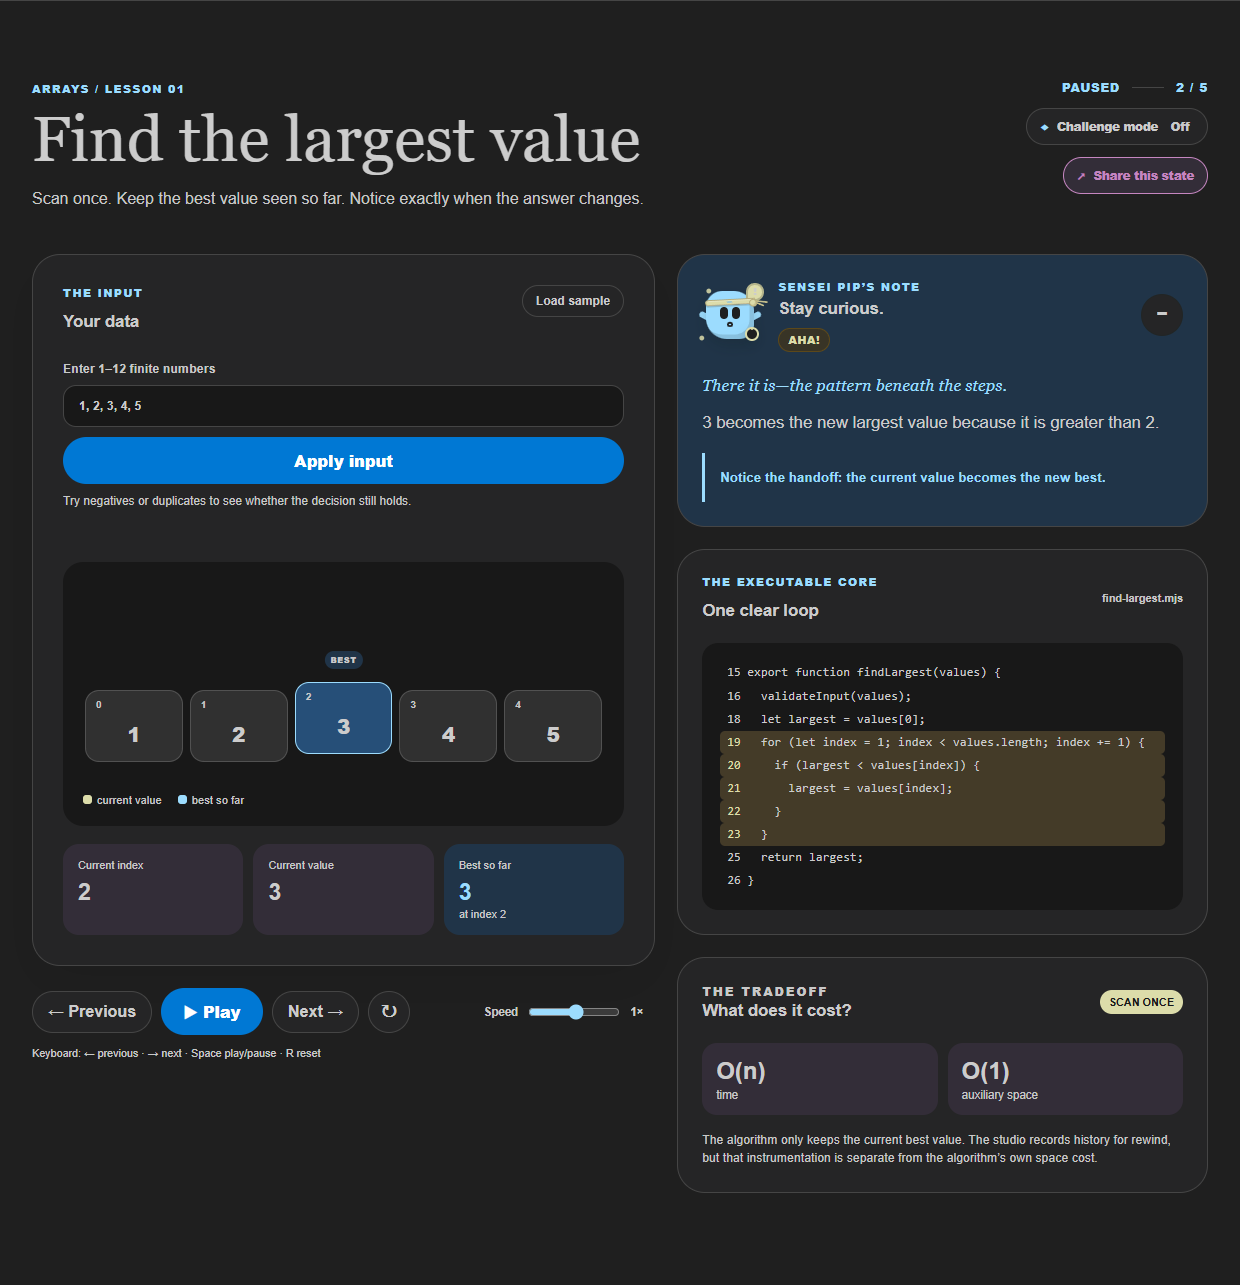
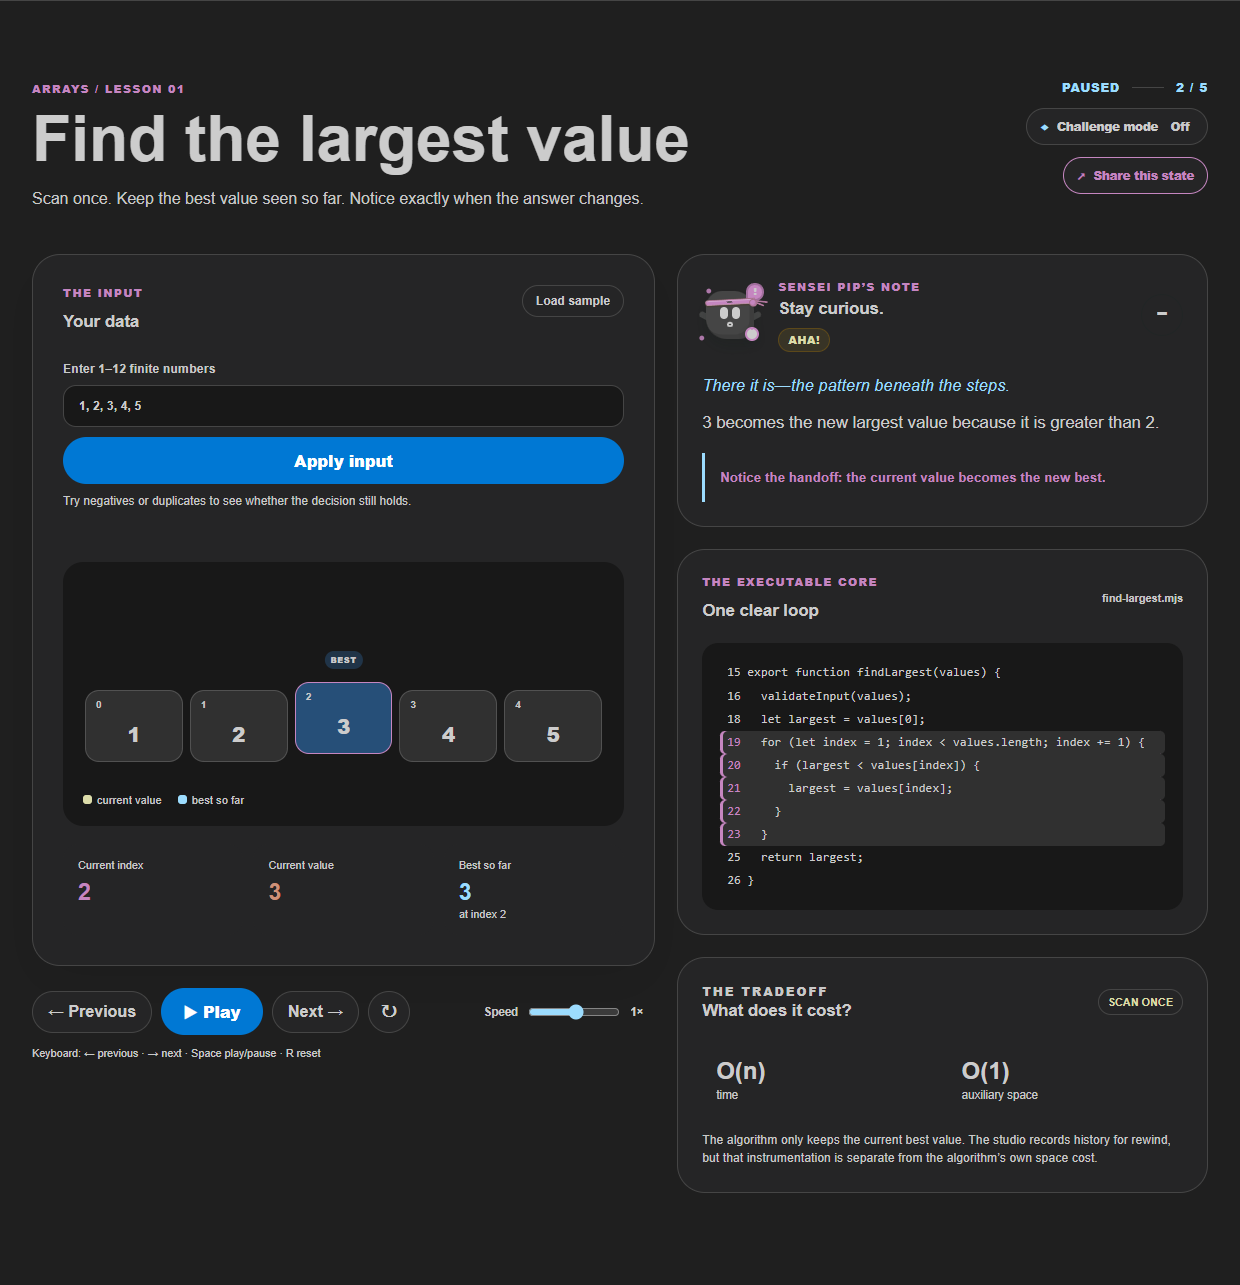
Unify bold typography, balanced Dark Modern accents and destination-specific media (#31)

diff --git a/studio/styles.css b/studio/styles.css
@@ -1,6 +1,6 @@
 :root {
   --font-ui: Arial, Helvetica, ui-sans-serif, system-ui, -apple-system, BlinkMacSystemFont, "Segoe UI", sans-serif;
-  --font-display: Georgia, "Times New Roman", serif;
+  --font-display: var(--font-ui);
   --font-code: Consolas, "Courier New", monospace;
 
   color-scheme: dark;
@@ -8,11 +8,11 @@
   --ink-soft: #C8C8C8;
   --paper: #1F1F1F;
   --surface: #252526;
-  --accent-surface: #203448;
+  --accent-surface: #252526;
   --accent: #9CDCFE;
   --action: #0078D4;
   --blue: #C586C0;
-  --blue-soft: #332D38;
+  --blue-soft: #252526;
   --sun: #DCDCAA;
   --line: #454545;
   --shadow: 0 18px 50px rgba(0, 0, 0, 0.08);
@@ -254,7 +254,7 @@ h3 { margin-bottom: 0; font-size: 1.05rem; }
 .array-cells { display: grid; grid-template-columns: repeat(var(--array-count), minmax(58px, 1fr)); gap: 7px; align-items: end; min-height: 134px; }
 .array-cell { position: relative; display: flex; align-items: flex-end; justify-content: center; min-height: 72px; padding: 18px 6px 13px; border: 1px solid rgba(255,255,255,0.16); border-radius: 14px; background: #303030; color: #CCCCCC; font-size: 1.25rem; font-weight: 800; transition: background 180ms ease, transform 180ms ease, border-color 180ms ease; }
 .array-cell::before { position: absolute; top: 8px; left: 10px; color: #C8C8C8; content: attr(data-index); font-size: 0.62rem; font-weight: 700; }
-.array-cell--active { border-color: var(--sun); background: #55461f; transform: translateY(-8px); }
+.array-cell--active { border-color: var(--sun); background: #303030; transform: translateY(-8px); }
 .array-cell--changed { outline: 3px solid #DCDCAA; outline-offset: 2px; animation: array-change 520ms ease-out; }
 .array-cell--marker-best { border-color: #9CDCFE; background: var(--accent-surface); }
 .array-cell--active.array-cell--marker-best { background: #264F78; }
@@ -300,7 +300,7 @@ h3 { margin-bottom: 0; font-size: 1.05rem; }
 .lookup-empty { display: grid; place-items: center; min-height: 76px; margin: 0; border: 1px dashed rgba(255,255,255,0.16); border-radius: 13px; color: #C8C8C8; font-size: 0.72rem; font-weight: 750; }
 .lookup-entries { display: flex; gap: 8px; min-width: max-content; padding: 5px 2px 8px; }
 .lookup-entry { position: relative; display: grid; grid-template-columns: auto auto auto; gap: 7px; align-items: center; min-width: 104px; min-height: 58px; padding: 12px 14px; border: 1px solid rgba(255,255,255,0.16); border-radius: 13px; background: #303030; color: #CCCCCC; transition: background 180ms ease, transform 180ms ease, border-color 180ms ease; }
-.lookup-entry--active { border-color: var(--sun); background: #55461f; transform: translateY(-4px); }
+.lookup-entry--active { border-color: var(--sun); background: #303030; transform: translateY(-4px); }
 .lookup-entry--result { border-color: #9CDCFE; box-shadow: inset 0 -4px 0 #9CDCFE; }
 .lookup-entry-key { color: #CCCCCC; font-size: 0.78rem; font-weight: 800; }
 .lookup-entry-separator { color: #C8C8C8; font-size: 0.7rem; }
@@ -313,7 +313,7 @@ h3 { margin-bottom: 0; font-size: 1.05rem; }
 .grid-cell::before { position: absolute; top: 4px; left: 6px; color: #C8C8C8; content: attr(data-row) "," attr(data-column); font-size: 0.48rem; font-weight: 700; }
 .grid-cell strong { font-size: 1rem; }
 .grid-cell small { position: absolute; right: 5px; bottom: 3px; max-width: calc(100% - 10px); overflow: hidden; color: #C8C8C8; font-size: 0.45rem; font-weight: 650; text-overflow: ellipsis; white-space: nowrap; }
-.grid-cell--active { border-color: var(--sun); background: #55461f; transform: translateY(-3px); }
+.grid-cell--active { border-color: var(--sun); background: #303030; transform: translateY(-3px); }
 .grid-cell--changed { outline: 3px solid #DCDCAA; outline-offset: 1px; animation: array-change 520ms ease-out; }
 .grid-cell--marker-result, .grid-cell--marker-settled, .grid-cell--marker-visited { border-color: #9CDCFE; box-shadow: inset 0 -4px 0 #9CDCFE; }
 
@@ -325,7 +325,7 @@ h3 { margin-bottom: 0; font-size: 1.05rem; }
 .stack-item small { color: #C8C8C8; font-size: 0.54rem; font-weight: 650; }
 .stack-item--top::before { color: var(--sun); content: "TOP"; font-size: 0.5rem; font-weight: 850; letter-spacing: 0.08em; }
 .stack-item--top strong { grid-column: 2; }
-.stack-item--active { border-color: var(--sun); background: #55461f; }
+.stack-item--active { border-color: var(--sun); background: #303030; }
 .stack-item--changed { outline: 2px solid #DCDCAA; outline-offset: 1px; }
 .stack-item--state-matched { border-color: #9CDCFE; }
 .stack-item--state-mismatch { border-color: #CE9178; background: #57322e; }
@@ -339,7 +339,7 @@ h3 { margin-bottom: 0; font-size: 1.05rem; }
 .queue-item span { max-width: 92px; overflow: hidden; color: #C8C8C8; font-size: 0.5rem; font-weight: 650; text-overflow: ellipsis; white-space: nowrap; }
 .queue-item--front { border-left-color: var(--blue); }
 .queue-item--back { border-right-color: var(--sun); }
-.queue-item--active { border-color: var(--sun); background: #55461f; transform: translateY(-3px); }
+.queue-item--active { border-color: var(--sun); background: #303030; transform: translateY(-3px); }
 .queue-item--changed { outline: 2px solid #DCDCAA; outline-offset: 1px; }
 
 .branching-view { min-width: 320px; overflow-x: auto; padding: 12px 6px 6px; scrollbar-color: #6B6B6B transparent; }
@@ -350,7 +350,7 @@ h3 { margin-bottom: 0; font-size: 1.05rem; }
 .branching-node strong { font-size: 1rem; }
 .branching-node-pointers { min-height: 0.65rem; color: var(--sun); font-size: 0.46rem; font-weight: 850; letter-spacing: 0.04em; text-transform: uppercase; }
 .branching-node small { max-width: 70px; min-height: 0.65rem; overflow: hidden; color: #C8C8C8; font-size: 0.46rem; font-weight: 650; text-overflow: ellipsis; white-space: nowrap; }
-.branching-node--active { border-color: var(--sun); background: #55461f; transform: translateY(-3px); }
+.branching-node--active { border-color: var(--sun); background: #303030; transform: translateY(-3px); }
 .branching-node--changed { outline: 2px solid #DCDCAA; outline-offset: 2px; }
 .branching-node--state-visited, .branching-node--state-result, .branching-node--state-valid { border-color: #9CDCFE; box-shadow: inset 0 -4px 0 #9CDCFE; }
 .branching-node--state-invalid { border-color: #CE9178; background: #57322e; }
@@ -365,7 +365,7 @@ h3 { margin-bottom: 0; font-size: 1.05rem; }
 .graph-node { position: absolute; left: var(--graph-x); top: var(--graph-y); display: grid; place-items: center; width: 62px; min-height: 62px; padding: 5px; border: 2px solid #6B6B6B; border-radius: 999px; background: #303030; color: #CCCCCC; text-align: center; transform: translate(-50%, -50%); transition: background 180ms ease, border-color 180ms ease, scale 180ms ease; }
 .graph-node strong { font-size: 0.9rem; }
 .graph-node small { max-width: 50px; overflow: hidden; color: #C8C8C8; font-size: 0.42rem; font-weight: 650; text-overflow: ellipsis; white-space: nowrap; }
-.graph-node--active { z-index: 2; border-color: var(--sun); background: #55461f; scale: 1.08; }
+.graph-node--active { z-index: 2; border-color: var(--sun); background: #303030; scale: 1.08; }
 .graph-node--changed { outline: 2px solid #DCDCAA; outline-offset: 2px; }
 .graph-node--state-visited, .graph-node--state-result, .graph-node--state-component { border-color: #9CDCFE; box-shadow: inset 0 -4px 0 #9CDCFE; }
 .graph-node--state-cycle { border-color: #CE9178; background: #57322e; }
@@ -382,7 +382,7 @@ h3 { margin-bottom: 0; font-size: 1.05rem; }
 .linked-list-pointer--next, .linked-list-pointer--fast { background: #DCDCAA; }
 .linked-list-node { position: relative; z-index: 2; display: grid; place-items: center; min-height: 78px; padding: 17px 8px 13px; border: 1px solid rgba(255,255,255,0.16); border-radius: 16px; background: #303030; color: #CCCCCC; font-size: 1.25rem; font-weight: 800; transition: background 180ms ease, border-color 180ms ease; }
 .linked-list-node::before { position: absolute; top: 7px; left: 9px; color: #C8C8C8; content: attr(data-index); font-size: 0.6rem; font-weight: 700; }
-.linked-list-item--active .linked-list-node { border-color: var(--sun); background: #55461f; }
+.linked-list-item--active .linked-list-node { border-color: var(--sun); background: #303030; }
 .linked-list-item--changed .linked-list-node { outline: 3px solid var(--sun); outline-offset: 2px; animation: array-change 520ms ease-out; }
 .linked-list-item--state-visited .linked-list-node, .linked-list-item--state-rewired .linked-list-node, .linked-list-item--state-reversed .linked-list-node { box-shadow: inset 0 -5px 0 #9CDCFE; }
 .linked-list-item--state-cycle .linked-list-node, .linked-list-item--state-cycle-entry .linked-list-node, .linked-list-item--state-meeting .linked-list-node { box-shadow: inset 0 -5px 0 #CE9178; }
@@ -565,6 +565,21 @@ h3 { margin-bottom: 0; font-size: 1.05rem; }
 .primary-button:hover { background: #0069B9; }
 
 /* Shared portfolio typography: editorial headings, quiet interface text. */
-h1, h2 { font-family: var(--font-display); font-weight: 500; letter-spacing: 0; }
-.home-hero h1 { font-weight: 500; letter-spacing: -0.025em; line-height: 0.98; }
+h1, h2 { font-family: var(--font-display); font-weight: 700; letter-spacing: 0; }
+.home-hero h1 { font-weight: 700; letter-spacing: -0.025em; line-height: 0.98; }
 pre, code, kbd, samp { font-family: var(--font-code); }
+
+/* Neutral workbench surfaces; syntax colors identify the supporting roles. */
+.hero h1 em { font-style: normal; font-weight: 700; color: #C586C0; }
+.eyebrow, .pip-card-header .eyebrow, .pip-prompt { color: #C586C0; }
+.pip-card, .stat-card, .stat-card--accent { background: #252526; }
+.lesson-card-copy small, .lesson-card-number { color: #CE9178; }
+.lesson-topic-group:nth-of-type(3n + 2) .lesson-topic-heading h3 { color: #DCDCAA; }
+.lesson-topic-group:nth-of-type(3n) .lesson-topic-heading h3 { color: #C586C0; }
+.stat-card:nth-child(3n + 1) strong { color: #C586C0; }
+.stat-card:nth-child(3n + 2) strong { color: #CE9178; }
+.stat-card:nth-child(3n) strong { color: #9CDCFE; }
+.code-line.is-active { background: #303030; box-shadow: inset 3px 0 0 #C586C0; }
+.code-line.is-active b { color: #C586C0; }
+.complexity-chip { background: #252526; color: #DCDCAA; border: 1px solid #454545; }
+.array-cell--active { border-color: #C586C0; background: #303030; }

diff --git a/studio/home.css b/studio/home.css
@@ -1,6 +1,6 @@
 :root {
   --font-ui: Arial, Helvetica, ui-sans-serif, system-ui, -apple-system, BlinkMacSystemFont, "Segoe UI", sans-serif;
-  --font-display: Georgia, "Times New Roman", serif;
+  --font-display: var(--font-ui);
   --font-code: Consolas, "Courier New", monospace;
 
   color-scheme: dark;
@@ -9,12 +9,12 @@
   --ink-soft: #C8C8C8;
   --paper: #1F1F1F;
   --surface: #252526;
-  --accent-surface: #203448;
+  --accent-surface: #252526;
   --accent-bright: #9CDCFE;
   --accent: #9CDCFE;
   --action: #0078D4;
   --blue: #C586C0;
-  --blue-soft: #332D38;
+  --blue-soft: #252526;
   --sun: #DCDCAA;
   --coral: #CE9178;
   --line: #454545;
@@ -1697,6 +1697,15 @@ button[data-scan-replay] { color: #9CDCFE; }
 .home-button--outline { color: #CCCCCC; }
 
 /* Shared portfolio typography: editorial headings, quiet interface text. */
-h1, h2 { font-family: var(--font-display); font-weight: 500; letter-spacing: 0; }
-.home-hero h1 { font-weight: 500; letter-spacing: -0.025em; line-height: 0.98; }
+h1, h2 { font-family: var(--font-display); font-weight: 700; letter-spacing: 0; }
+.home-hero h1 { font-weight: 700; letter-spacing: -0.025em; line-height: 0.98; }
 pre, code, kbd, samp { font-family: var(--font-code); }
+
+.home-hero h1 em { font-style: normal; font-weight: 700; color: #C586C0; }
+.home-eyebrow, .home-hero .home-eyebrow, .final-section .home-eyebrow { color: #C586C0; }
+.home-button:not(.home-button--primary):not(.home-button--ghost):not(.home-button--outline) { background: #252526; color: #DCDCAA; border-color: #454545; }
+.home-lesson-topic:nth-of-type(3n + 2) h2 { color: #DCDCAA; }
+.home-lesson-topic:nth-of-type(3n) h2 { color: #CE9178; }
+
+.home-hero .home-button--outline { color: #CE9178; }
+.header-cta { color: #9CDCFE; }

diff --git a/studio/index.html b/studio/index.html
@@ -10,11 +10,11 @@
     <meta property="og:url" content="https://everdein.github.io/dsa-dojo/studio/" />
     <meta property="og:title" content="DSA Dojo — Interactive Algorithm Studio" />
     <meta property="og:description" content="Step through 55 JavaScript algorithm lessons with synchronized state, source code, and explanation." />
-    <meta property="og:image" content="https://everdein.github.io/dsa-dojo/social-preview.jpg?v=20261023-type" />
+    <meta property="og:image" content="https://everdein.github.io/dsa-dojo/social-preview.jpg?v=20261023-balanced" />
     <meta name="twitter:card" content="summary_large_image" />
     <meta name="twitter:title" content="DSA Dojo — Interactive Algorithm Studio" />
     <meta name="twitter:description" content="Pause, predict, and explain 55 JavaScript algorithm lessons one decision at a time." />
-    <meta name="twitter:image" content="https://everdein.github.io/dsa-dojo/social-preview.jpg?v=20261023-type" />
+    <meta name="twitter:image" content="https://everdein.github.io/dsa-dojo/social-preview.jpg?v=20261023-balanced" />
     <title>DSA Dojo — Interactive Algorithm Studio</title>
     <link rel="canonical" href="https://everdein.github.io/dsa-dojo/studio/" />
     <link rel="icon" href="../favicon.svg" type="image/svg+xml" />

diff --git a/studio/home.html b/studio/home.html
@@ -10,11 +10,11 @@
     <meta property="og:url" content="https://everdein.github.io/dsa-dojo/" />
     <meta property="og:title" content="DSA Dojo — See the Algorithm Think" />
     <meta property="og:description" content="Interactive JavaScript lessons that synchronize algorithm state, source code, and explanation." />
-    <meta property="og:image" content="https://everdein.github.io/dsa-dojo/social-preview.jpg?v=20261023-type" />
+    <meta property="og:image" content="https://everdein.github.io/dsa-dojo/social-preview.jpg?v=20261023-balanced" />
     <meta name="twitter:card" content="summary_large_image" />
     <meta name="twitter:title" content="DSA Dojo — See the Algorithm Think" />
     <meta name="twitter:description" content="Pause, predict, and explain data structures and algorithms one decision at a time." />
-    <meta name="twitter:image" content="https://everdein.github.io/dsa-dojo/social-preview.jpg?v=20261023-type" />
+    <meta name="twitter:image" content="https://everdein.github.io/dsa-dojo/social-preview.jpg?v=20261023-balanced" />
     <title>DSA Dojo — See the Algorithm Think</title>
     <link rel="canonical" href="https://everdein.github.io/dsa-dojo/" />
     <link rel="icon" href="./favicon.svg" type="image/svg+xml" />

diff --git a/studio/pip.css b/studio/pip.css
@@ -1,8 +1,8 @@
 .pip-avatar {
   --pip-size: 3.5rem;
-  --pip-color: var(--accent, #0078D4);
-  --pip-eye-color: var(--paper, #f7f5ef);
-  --pip-orbit-color: var(--sun, #f5c96b);
+  --pip-color: #454545;
+  --pip-eye-color: #CCCCCC;
+  --pip-orbit-color: #C586C0;
   --pip-arm-duration: 2.2s;
   --pip-arm-left-rest: 10deg;
   --pip-arm-left-peak: 26deg;

diff --git a/docs/visual-system.md b/docs/visual-system.md
@@ -3,7 +3,7 @@
 The portfolio, Pay Period Planner and DSA Dojo share a system-font pairing:
 
 - Interface text: Arial, Helvetica and system sans-serif fallbacks.
-- Display headings: Georgia, Times New Roman and serif fallbacks.
+- Display headings: bold Arial with the same sans-serif fallbacks.
 - Code: Consolas, Courier New and monospace fallbacks.
 
 Fonts are supplied by the device; no font service or remote font request is required.
@@ -11,3 +11,5 @@ Fonts are supplied by the device; no font service or remote font request is requ
 Dark Modern uses #1F1F1F for the canvas, #181818 for side panels, #CCCCCC for body text, #0078D4 for actions and focus, and #9CDCFE for readable blue accents. Yellow #DCDCAA, magenta #C586C0 and salmon #CE9178 distinguish supporting details. Error states use #F85149. Green and teal are not brand or interface accents. Light mode, where supported, keeps neutral surfaces and blue interactions.
 
 Application screenshots are real browser captures. Planner captures use an isolated synthetic workspace. Marketing thumbnails are illustrative and are refreshed when the visible design changes.
+
+Large panels stay neutral charcoal. Light blue, magenta, warm yellow and salmon distinguish labels and supporting details, matching the portfolio technology labels. Blue marks actions and focus rather than filling decorative panels.

diff --git a/README.md b/README.md
@@ -6,7 +6,7 @@
 
 [Open the live DSA Dojo](https://everdein.github.io/dsa-dojo/)
 
-![DSA Dojo — See the algorithm think, with shared portfolio typography](studio/social-preview.jpg)
+[![DSA Dojo — See the algorithm think, with shared portfolio typography](studio/social-preview.jpg)](https://everdein.github.io/dsa-dojo/)
 
 DSA Dojo is a framework-free learning product that makes data structures and
 algorithms visible, inspectable, and explainable with JavaScript. Learners can

diff --git a/docs/images/dark-modern/README.md b/docs/images/dark-modern/README.md
@@ -8,5 +8,5 @@ Real browser captures of the Dark Modern application on October 23, 2026:
 
 Use these files for project media rather than earlier light-theme screenshots.
 
-The current captures use the shared Arial/Georgia font system. mobile.png records the 390px landing view.
+The current captures use the shared bold Arial font system. mobile.png records the 390px landing view.
 
